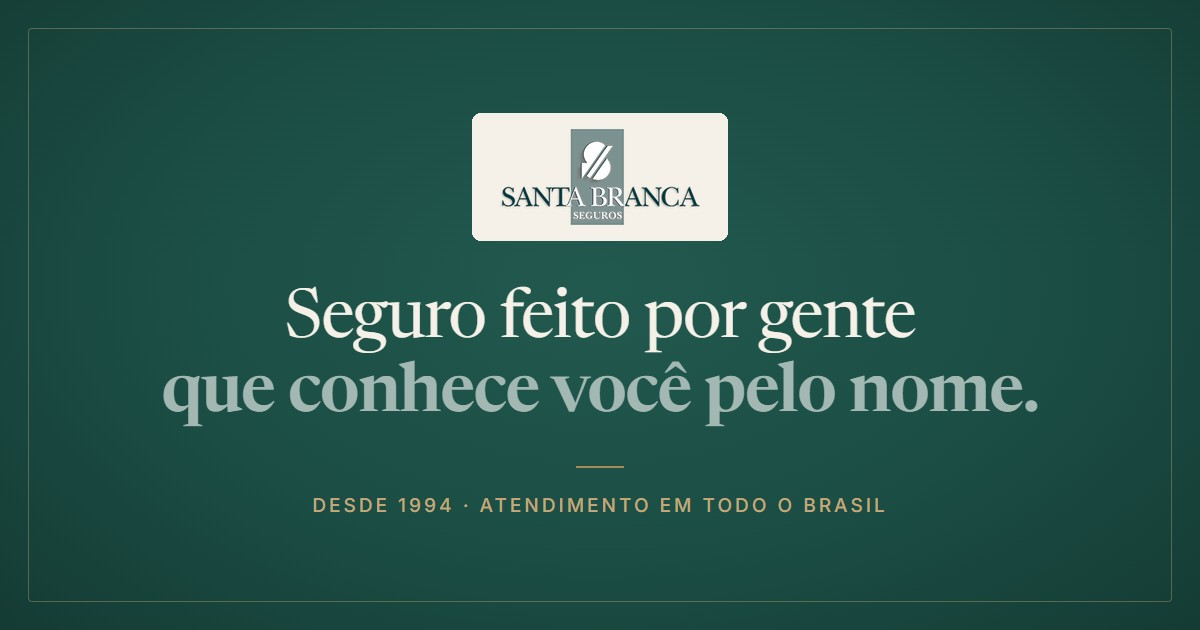
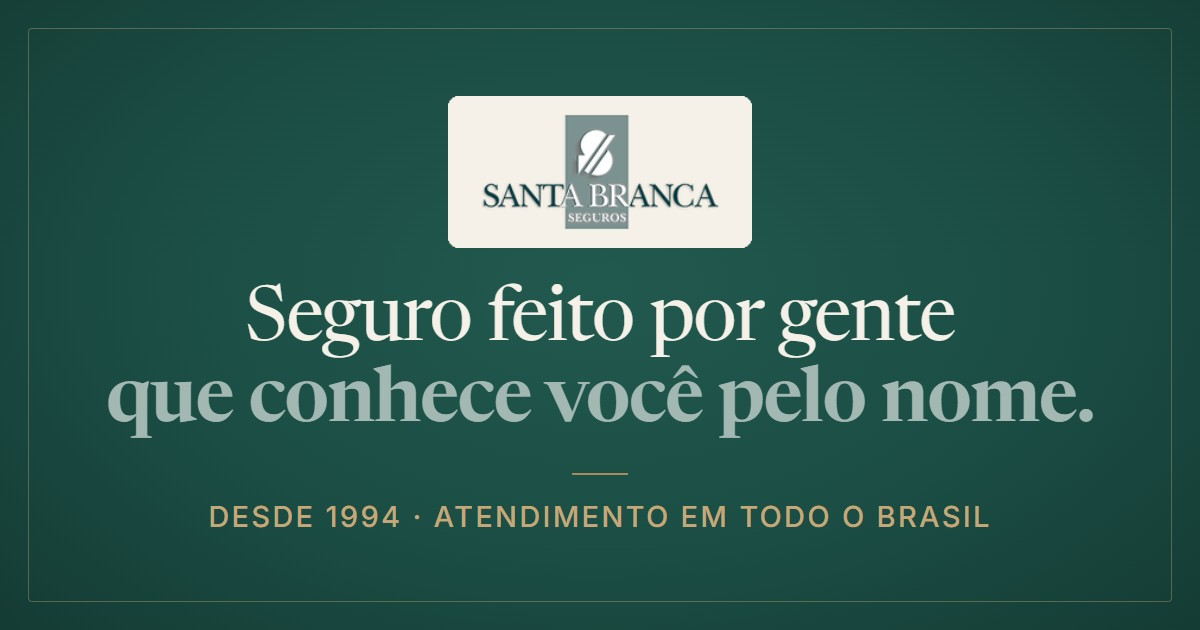
fix(og): textos maiores na imagem de compartilhamento
Na prévia do WhatsApp (cerca de 330 px de largura no celular) a linha
"Desde 1994 · Atendimento em todo o Brasil" ficava com uns 5 px e não
dava para ler. Logo, frase e linha de apoio aumentaram e o espaço
vazio diminuiu. Mesmo layout, mesma paleta, 67 KB.

O nome do arquivo continua og-image-v2.jpg: ele ainda não foi lido por
WhatsApp nem Facebook (as tags apontam para santabranca.com.br, que
ainda é o site antigo), então não há cache para invalidar.

diff --git a/CLAUDE.md b/CLAUDE.md
@@ -81,7 +81,7 @@ Todos abrem em nova aba (`target="_blank" rel="noopener noreferrer"`).
 
 ## Imagem de compartilhamento (Open Graph)
 
-`assets/og-image-v2.jpg`, 1200×630, JPEG de ~60 KB (WhatsApp ignora imagens grandes demais: manter abaixo de 300 KB). Usada em `og:image`, `twitter:image` e no `image` dos dados estruturados de `index.html`, com `og:image:alt` e `twitter:image:alt`.
+`assets/og-image-v2.jpg`, 1200×630, JPEG de ~70 KB (WhatsApp ignora imagens grandes demais: manter abaixo de 300 KB). Usada em `og:image`, `twitter:image` e no `image` dos dados estruturados de `index.html`, com `og:image:alt` e `twitter:image:alt`.
 
 - Ao refazer: salvar com **nome novo** (`og-image-v3.jpg`…), porque `/assets/` tem cache `immutable` de 1 ano, e trocar os três lugares.
 - WhatsApp e Facebook guardam a prévia do link por dias: depois da troca, forçar nova leitura no Depurador de Compartilhamento do Facebook (developers.facebook.com/tools/debug).
